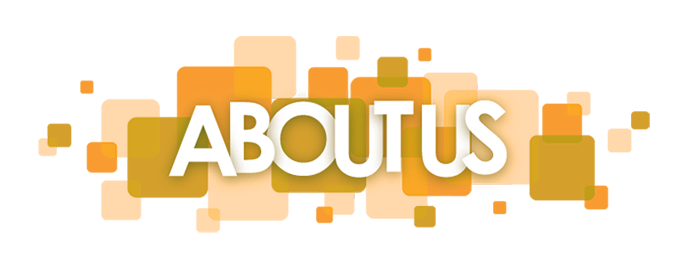
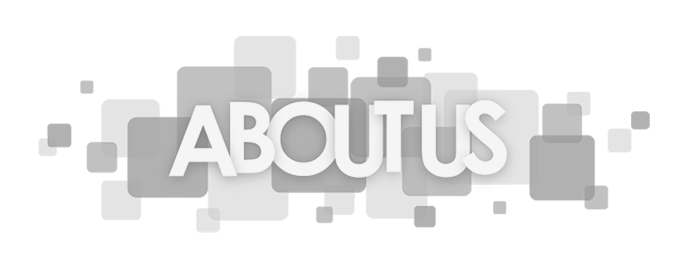
master

diff --git a/styles/style.css b/styles/style.css
@@ -8,6 +8,7 @@ body {
   background-color: red, transparent;
   background-image: url(../img/wp.jpg);
   font-family: "Roboto", sans-serif;
+  outline: none;
 }
 
 /* navmenu start*/
@@ -79,7 +80,7 @@ body {
   font-size: 42px;
 }
 .mainpic{
-  background-image: url(/site/img/banner-bg-front.jpg);
+  background-image: url(../img/banner-bg-front.jpg);
   width: 100%;
   height: 460px;
   box-shadow: 0 0 5px 0 black;
@@ -144,6 +145,58 @@ body {
   background-color: black;
   transition: all 300ms;
 }
+
+.infobar{
+  width: 100%;
+  height: 50px;
+  background-color: white;
+  box-shadow: 0 0 5px black;
+}
+
+.jobs-block{
+  display: flex;
+  justify-content: space-around;
+  flex-wrap: wrap;
+  margin: 0 auto;
+  width: 1200px;
+  /* height: 20px; */
+  /* background-color: gray; */
+}
+
+.colorline1{
+  width: 4%;
+  height: 100%;
+  background-color: hsl(313, 40%, 70%);
+}
+.colorline2{
+  width: 4%;
+  height: 100%;
+  background-color: hsl(0, 40%, 50%);
+}
+.colorline3{
+  width: 4%;
+  height: 100%;
+  background-color: hsl(255, 40%, 70%);
+}
+
+.vacansy_info{
+  display: flex;
+  width: 100%;
+  align-items: center;
+  justify-content: center;
+}
+
+
+.vacansy-block{
+  display: flex;
+  margin: 1% 1%;
+  width: 240px;
+  height: 100px;
+  background-color: rgba(83, 83, 83, 0.25);
+  border: 1px solid gray;
+  box-shadow: 0 0 1px black;
+  border-radius: 5px;
+}
 /* footer start*/
 
 .footer {
@@ -194,7 +247,7 @@ body {
 
 .qwcard {
   box-shadow: 0 4px 8px 0 rgba(0, 0, 0, 0.3);
-  background-color: rgba(255, 174, 0, 0.25);
+  background-color: rgba(177, 177, 177, 0.25);
   width: 350px;
   margin: auto;
   text-align: center;
@@ -341,10 +394,15 @@ a:hover {
   outline: none;
   border-radius: 10px;
   border: solid 1px gray;
-  background-color: orange;
-  /* color: white; */
+  background-color: white;
   font-weight: bold;
   font-size: 18px;
+}
+
+.taskadd_button:hover{
+  transition: all 300ms;
+  background-color: black;
+  color: white;
 }
 
 /* taskaddhtml end */

diff --git a/main.html b/main.html
@@ -43,10 +43,22 @@
           <button class="create_qw">Создать собственное</button>
         </div>
         <div class="search_qw_line">
-          <input type="text" placeholder="Что вы ищите?" class="find_input"/>
+          <input type="text" placeholder="Что вы ищите?" class="find_input" />
           <button class="find_input_btn">Найти</button>
         </div>
       </div>
+    </div>
+    <div class="infobar"></div>
+    <div class="jobs-block">
+      <div class="vacansy-block"><div class="colorline1"></div><h2 class="vacansy_info">Вакансия</h2>
+    </div>
+      <div class="vacansy-block"><div class="colorline2"></div></div>
+      <div class="vacansy-block"><div class="colorline3"></div></div>
+      <div class="vacansy-block"><div class="colorline1"></div></div>
+      <div class="vacansy-block"><div class="colorline2"></div></div>
+      <div class="vacansy-block"><div class="colorline3"></div></div>
+      <div class="vacansy-block"><div class="colorline1"></div></div>
+      <div class="vacansy-block"><div class="colorline2"></div></div>
     </div>
     <footer class="footer">
       <div class="copyright">
